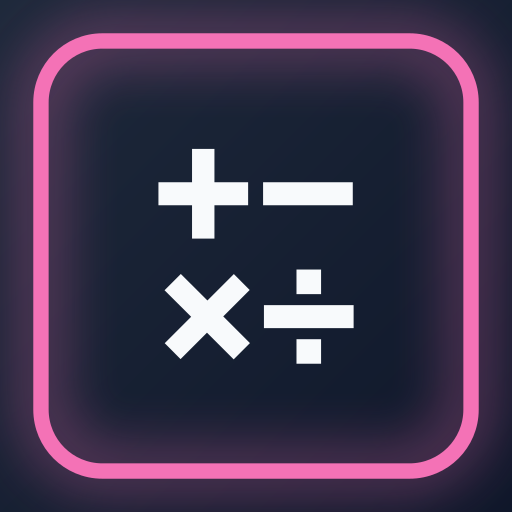
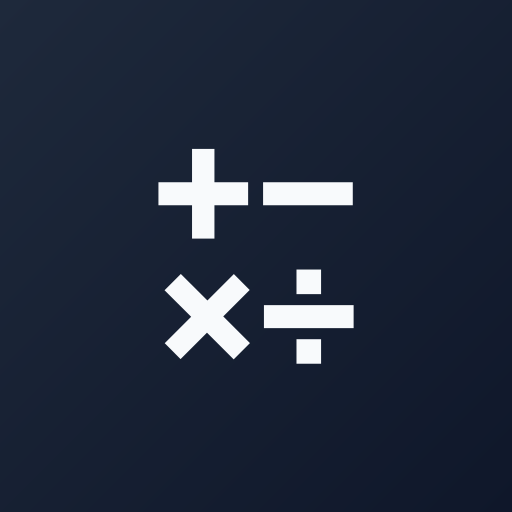
Usunieto ramke z ikon PWA

diff --git a/generate-icons.js b/generate-icons.js
@@ -18,17 +18,7 @@ function drawIcon(size, filename) {
   ctx.fillStyle = gradient;
   ctx.fillRect(0, 0, size, size);
 
-  // Border glow effect
-  ctx.strokeStyle = '#f472b6';
-  ctx.lineWidth = size * 0.03;
-  ctx.shadowColor = '#f472b6';
-  ctx.shadowBlur = size * 0.1;
-  ctx.beginPath();
-  ctx.roundRect(size * 0.08, size * 0.08, size * 0.84, size * 0.84, size * 0.12);
-  ctx.stroke();
-
   // Math symbols "+−" top and "×÷" bottom
-  ctx.shadowBlur = 0;
   ctx.fillStyle = '#f8fafc';
   ctx.font = `bold ${size * 0.35}px Arial`;
   ctx.textAlign = 'center';
